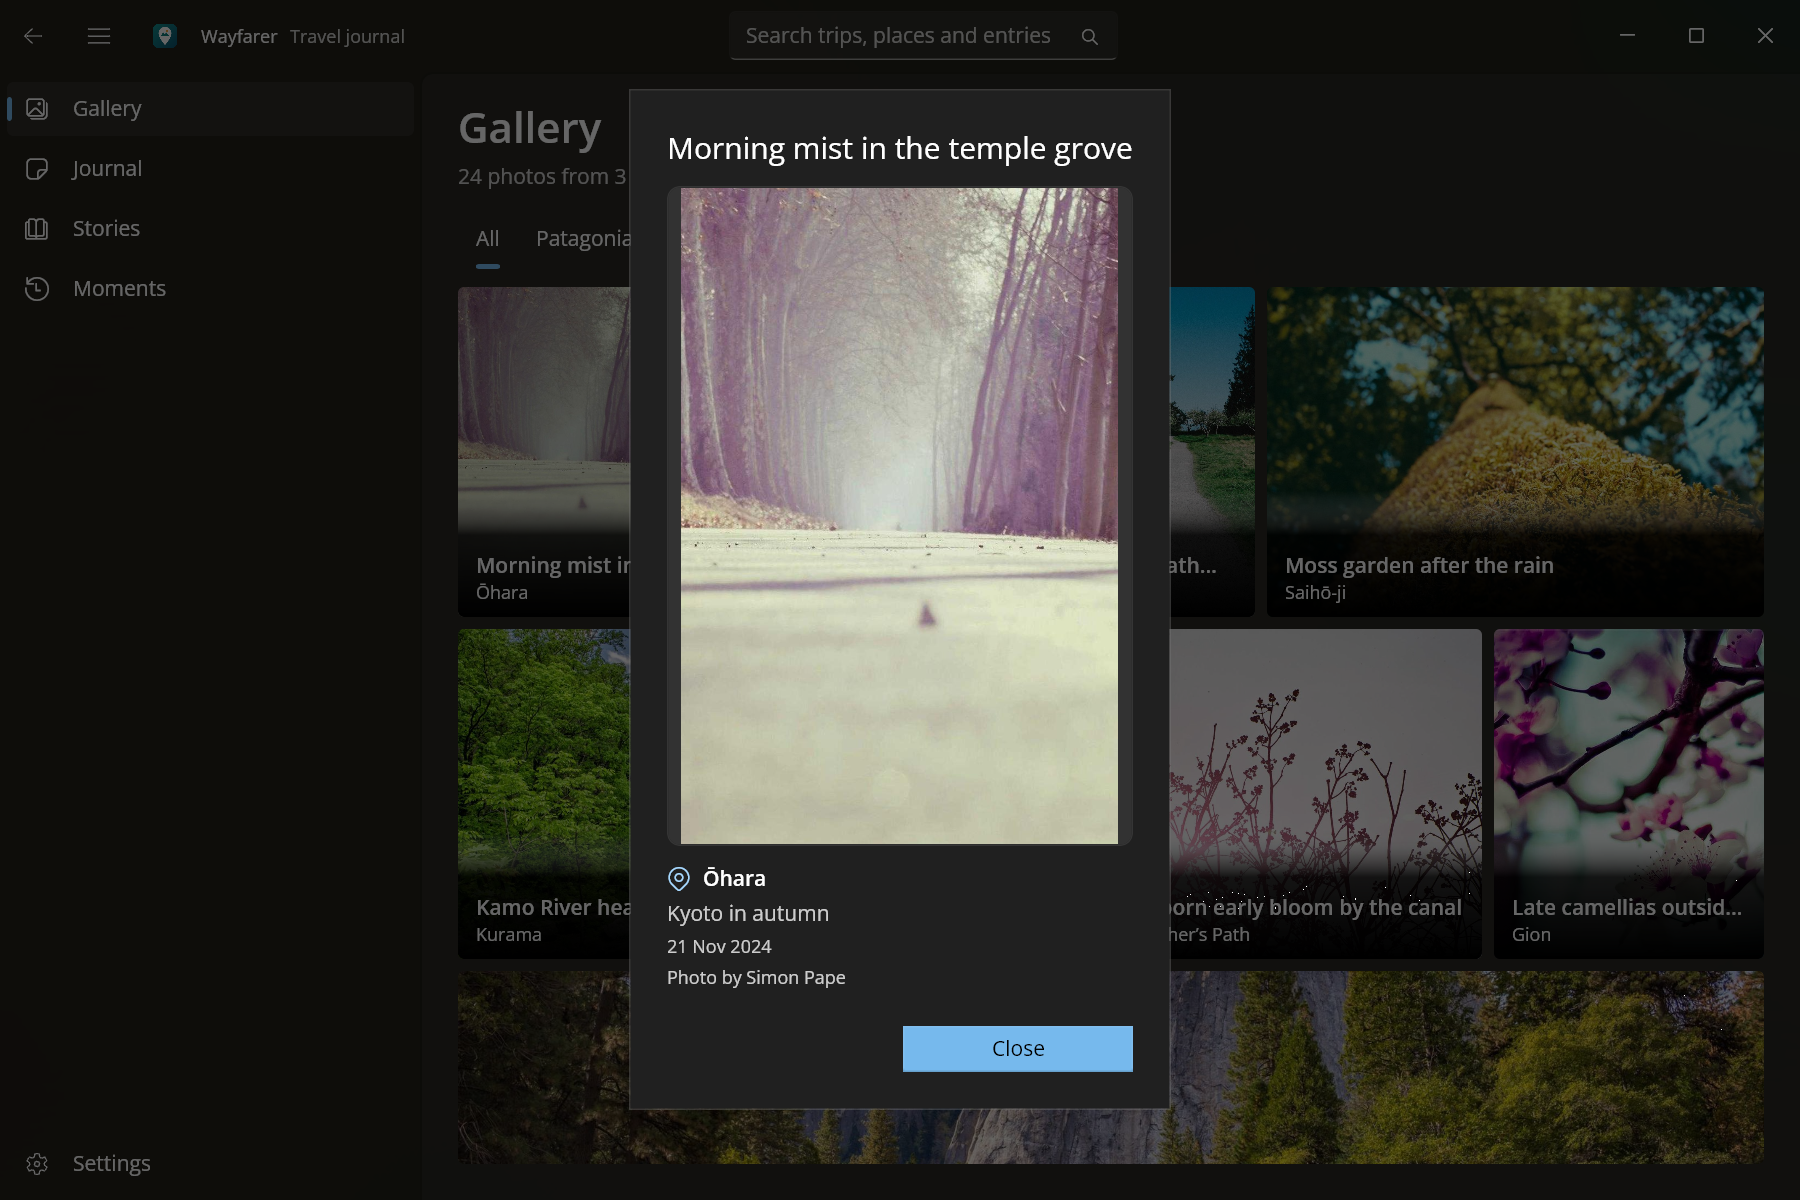
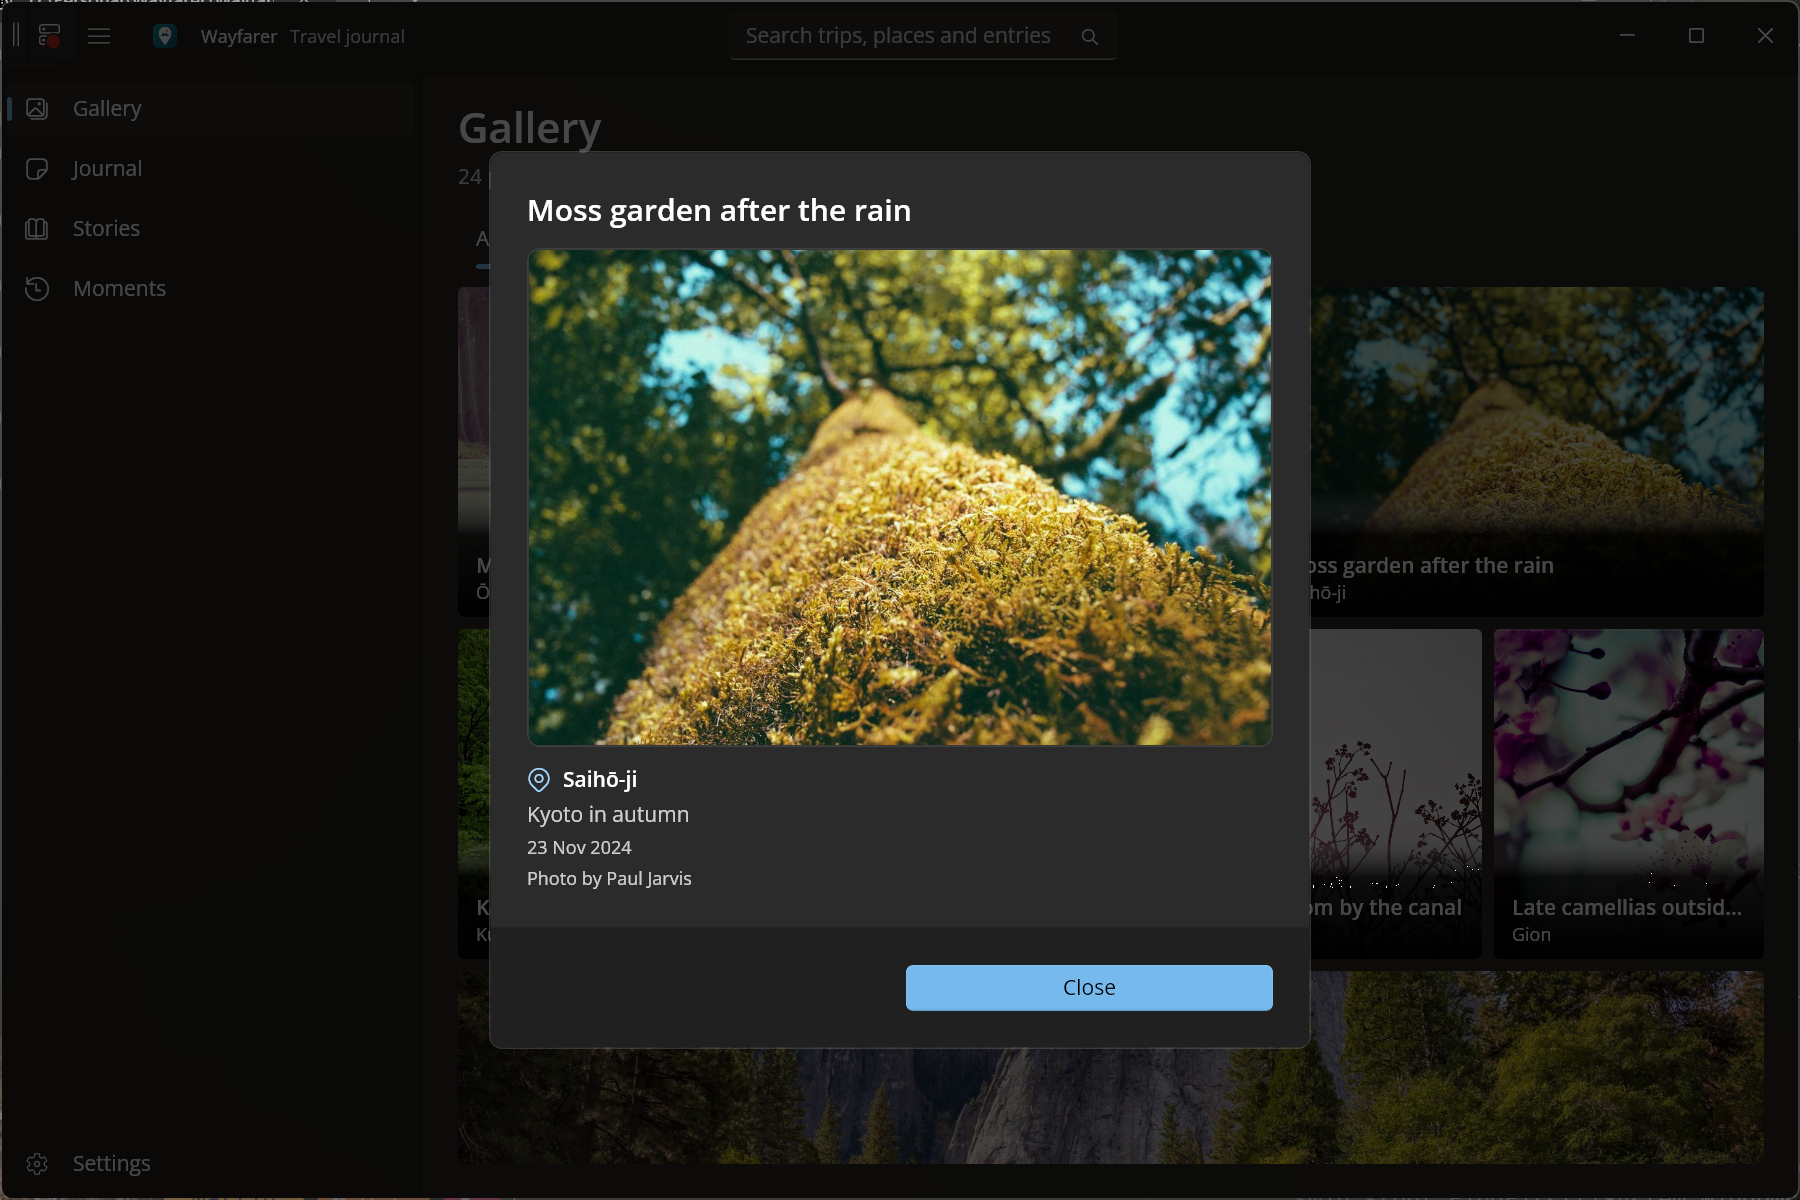
fix(dialogs): Use the Fluent ContentDialog style
WinUI's implicit ContentDialog style is the legacy one; the Fluent
look comes from DefaultContentDialogStyle, which must be set explicitly.

Claude-Session: https://claude.ai/code/session_01G1aGuMB5fbRqFHkqa67Mku

diff --git a/Wayfarer/Views/GalleryPhotoDialog.xaml b/Wayfarer/Views/GalleryPhotoDialog.xaml
@@ -5,6 +5,7 @@
                AutomationProperties.AutomationId="GalleryPhotoDialog"
                CloseButtonText="Close"
                DefaultButton="Close"
+               Style="{StaticResource DefaultContentDialogStyle}"
                Title="{x:Bind Photo.Caption, Mode=OneTime}">
 
     <StackPanel Spacing="{StaticResource WayfarerItemSpacing}">

diff --git a/Wayfarer/Views/JournalEntryEditor.xaml.cs b/Wayfarer/Views/JournalEntryEditor.xaml.cs
@@ -321,6 +321,7 @@ public sealed partial class JournalEntryEditor : UserControl
             PrimaryButtonText = "Delete",
             CloseButtonText = "Keep it",
             DefaultButton = ContentDialogButton.Close,
+            Style = (Style)Application.Current.Resources["DefaultContentDialogStyle"],
         };
         AutomationProperties.SetAutomationId(dialog, "DeleteEntryDialog");
 
